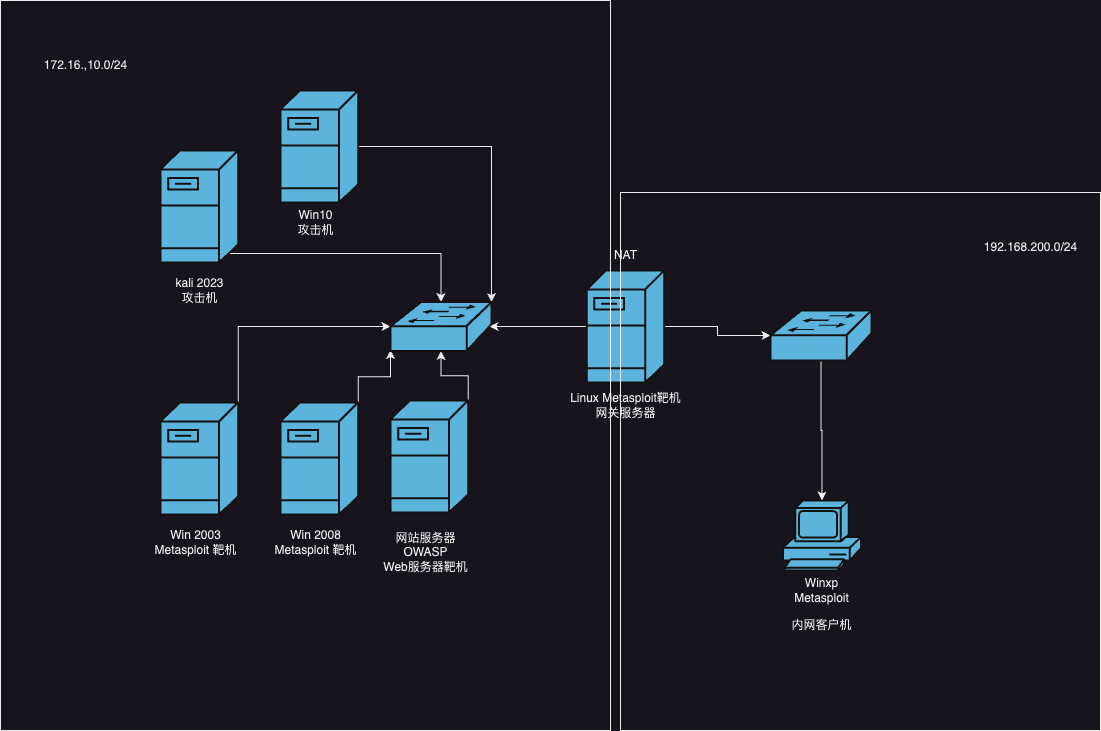
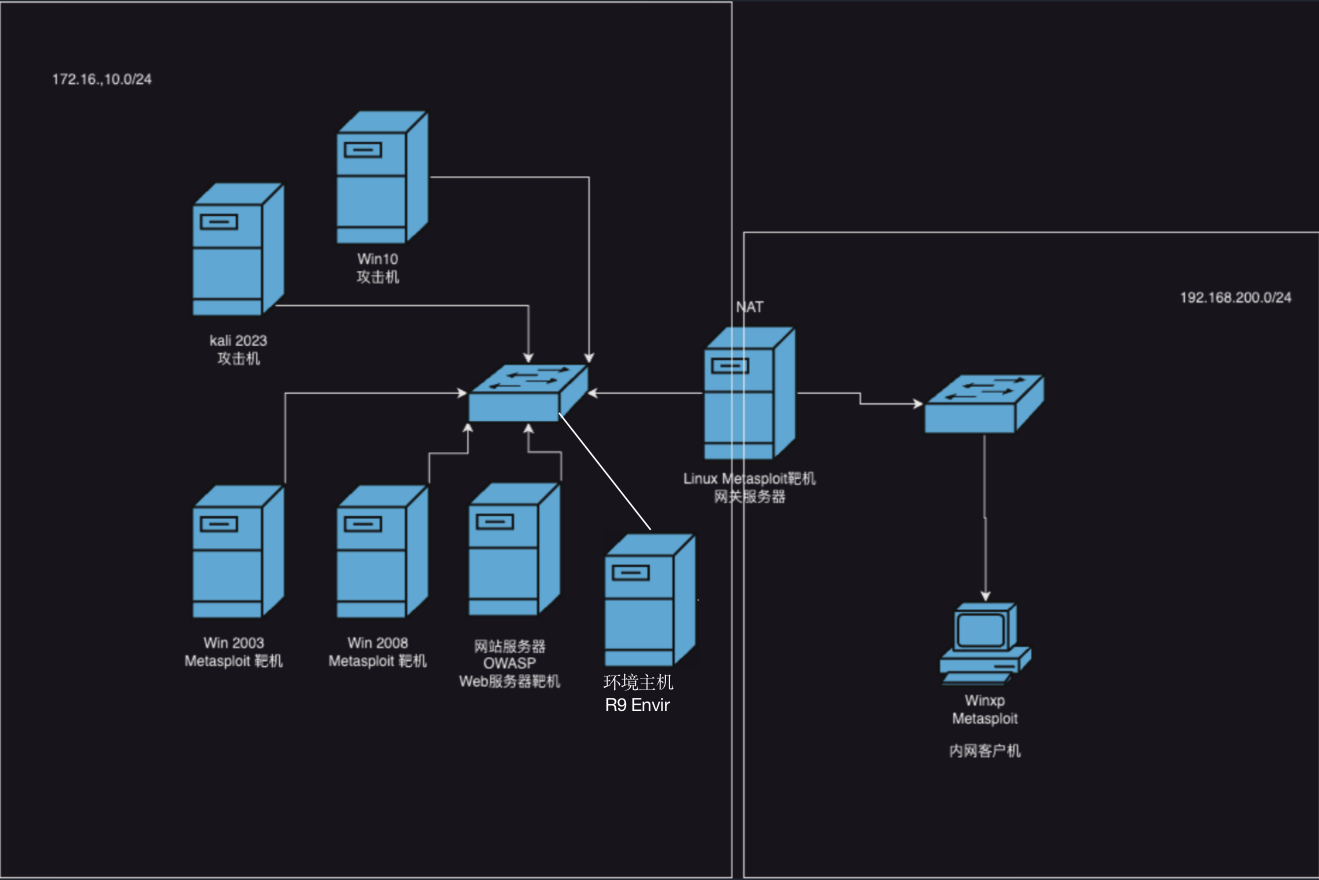
update

diff --git a/渗透攻击课程/Lesson0/4.虚拟环境部署.md b/渗透攻击课程/Lesson0/4.虚拟环境部署.md
@@ -139,3 +139,6 @@ iptables -t nat -A POSTROUTING -s 192.168.200.0/24 -o eth0 -j MASQUERADE
 ### Win2K8 Metasploit靶机配置:
 - 打开 VMware Workstation 软件，选择文件一打开，选择虚拟机所在目录，打开相应的 VMX 文件。
 - 配置 Win2K8 Metasploitable 靶机虛拟机的硬件，在硬件选项卡中选择网络适配器，设置 Nat 模式，即连接企业内网的 VMnet8 虛拟网段。
+
+### R9 Envir
+- 本虚拟机已经配置好了DNS等服务，并且配置好了IP地址，只要打开就可以使用.

diff --git a/渗透攻击课程/Lesson0/2.攻击机环境.md b/渗透攻击课程/Lesson0/2.攻击机环境.md
@@ -6,3 +6,7 @@
 
 ### Win10
 - Win10操作系统，系统上存放了大量的基于Windows的安全渗透工具。
+
+
+### R9 Envir
+- Rocky Linux环境主机，主要为整个环境提供dns、vsftp、samba等服务。
